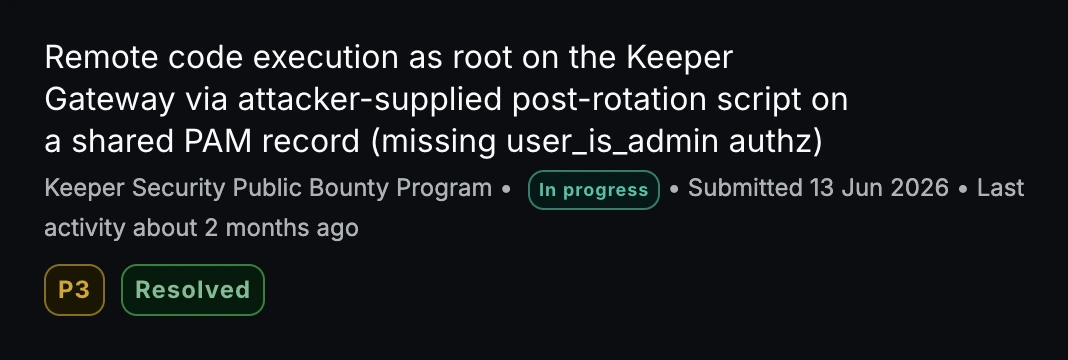
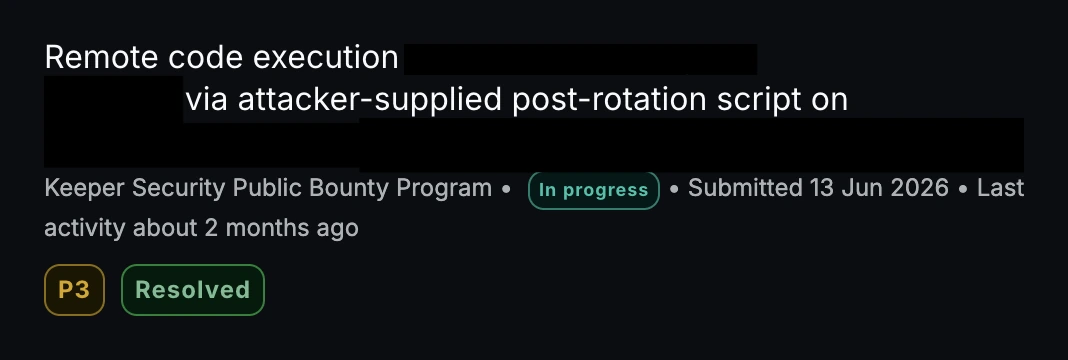
Use redacted report cards and add the NASA card
Claude-Session: https://claude.ai/code/session_01QfuiF7DMeh25EAkf2p2X1x

diff --git a/index.html b/index.html
@@ -20,19 +20,19 @@
 <div class="security-writeups" aria-label="Selected security findings">
 <article class="security-finding" id="sql-injection" aria-labelledby="sql-injection-heading">
 <div class="finding-meta"><p class="finding-vendor">Keeper Security</p><p class="finding-severity">High (P2)</p><p class="finding-status">Resolved</p></div>
-<div class="finding-story"><h3 id="sql-injection-heading">SQL injection leading to account takeover</h3><p class="finding-deck">Fixed a SQL injection issue in an automated database password management service. The issue allowed an unauthorized password change on a separate database account, leading to account takeover. The fix separated user-controlled values from database commands.</p><figure class="finding-shot"><img src="assets/findings/keeper-sql-injection.webp" alt="Bugcrowd report card: Keeper Gateway SQL injection in SaaS password-rotation plugins, P2, Resolved" width="1068" height="402" loading="lazy" decoding="async"></figure></div>
+<div class="finding-story"><h3 id="sql-injection-heading">SQL injection leading to account takeover</h3><p class="finding-deck">Fixed a SQL injection issue in an automated database password management service. The issue allowed an unauthorized password change on a separate database account, leading to account takeover. The fix separated user-controlled values from database commands.</p><figure class="finding-shot"><img src="assets/findings/keeper-sql-injection.webp" alt="Redacted Bugcrowd report card: Keeper Gateway SQL injection leading to database-account takeover, P2, Resolved" width="1068" height="402" loading="lazy" decoding="async"></figure></div>
 </article>
 <article class="security-finding" id="access-control-rce" aria-labelledby="access-control-heading">
 <div class="finding-meta"><p class="finding-vendor">Keeper Security</p><p class="finding-severity">Medium (P3)</p><p class="finding-status">Resolved</p></div>
-<div class="finding-story"><h3 id="access-control-heading">Broken access control leading to RCE</h3><p class="finding-deck">Fixed an authorization issue that allowed non-admin record editors to reach a privileged execution feature. The issue led to code execution in the backend service. The fix restored the required permission checks.</p><figure class="finding-shot"><img src="assets/findings/keeper-access-control-rce.webp" alt="Bugcrowd report card: Remote code execution as root on the Keeper Gateway via post-rotation script, P3, Resolved" width="1068" height="360" loading="lazy" decoding="async"></figure></div>
+<div class="finding-story"><h3 id="access-control-heading">Broken access control leading to RCE</h3><p class="finding-deck">Fixed an authorization issue that allowed non-admin record editors to reach a privileged execution feature. The issue led to code execution in the backend service. The fix restored the required permission checks.</p><figure class="finding-shot"><img src="assets/findings/keeper-access-control-rce.webp" alt="Redacted Bugcrowd report card: Remote code execution via attacker-supplied post-rotation script, P3, Resolved" width="1068" height="360" loading="lazy" decoding="async"></figure></div>
 </article>
 <article class="security-finding" id="device-approval-bypass" aria-labelledby="device-approval-heading">
 <div class="finding-meta"><p class="finding-vendor">Keeper Security</p><p class="finding-severity">High (P2)</p><p class="finding-status">Resolved</p></div>
-<div class="finding-story"><h3 id="device-approval-heading">Device approval bypass</h3><p class="finding-deck">Fixed a device approval bypass in the biometric/passkey login flow. An affected request could skip device approval and proceed to authentication. Authentication, MFA, biometric checks, and brute-force protection remained enforced.</p><p class="finding-deck">Keeper released the fix in Backend API 18.1.0 within 24 hours of validating the report and publicly credited Karl Seryani.</p><figure class="finding-shot"><img src="assets/findings/keeper-device-approval-bypass.webp" alt="Bugcrowd report card: Device approval bypass via loginType=PASSKEY_BIO on Keeper Web Vault, P2, Resolved" width="1075" height="319" loading="lazy" decoding="async"></figure><a class="writeup-link" href="https://docs.keeper.io/release-notes/backend/backend-api/backend-api-18.1.0">View Keeper’s recognition <span aria-hidden="true">→</span></a></div>
+<div class="finding-story"><h3 id="device-approval-heading">Device approval bypass</h3><p class="finding-deck">Fixed a device approval bypass in the biometric/passkey login flow. An affected request could skip device approval and proceed to authentication. Authentication, MFA, biometric checks, and brute-force protection remained enforced.</p><p class="finding-deck">Keeper released the fix in Backend API 18.1.0 within 24 hours of validating the report and publicly credited Karl Seryani.</p><figure class="finding-shot"><img src="assets/findings/keeper-device-approval-bypass.webp" alt="Redacted Bugcrowd report card: Device approval bypass allowing Web Vault sessions on unapproved devices, P2, Resolved" width="1075" height="319" loading="lazy" decoding="async"></figure><a class="writeup-link" href="https://docs.keeper.io/release-notes/backend/backend-api/backend-api-18.1.0">View Keeper’s recognition <span aria-hidden="true">→</span></a></div>
 </article>
 <article class="security-finding" id="nasa-stored-xss" aria-labelledby="nasa-finding-heading">
 <div class="finding-meta"><p class="finding-vendor">NASA</p><p class="finding-severity">High (P2)</p><p class="finding-status">Unresolved</p></div>
-<div class="finding-story"><h3 id="nasa-finding-heading">Stored XSS leading to account takeover</h3><p class="finding-deck">Validated a high-severity stored XSS issue in NASA’s GLOBE platform that led to an authenticated session for another account. The report remains unresolved.</p></div>
+<div class="finding-story"><h3 id="nasa-finding-heading">Stored XSS leading to account takeover</h3><p class="finding-deck">Validated a high-severity stored XSS issue in NASA’s GLOBE platform that led to an authenticated session for another account. The report remains unresolved.</p><figure class="finding-shot"><img src="assets/findings/nasa-stored-xss.webp" alt="Redacted Bugcrowd report card: Stored XSS allowing account takeover, P2, Unresolved" width="962" height="278" loading="lazy" decoding="async"></figure></div>
 </article>
 </div></section>
 <section id="work" aria-labelledby="work-heading">
